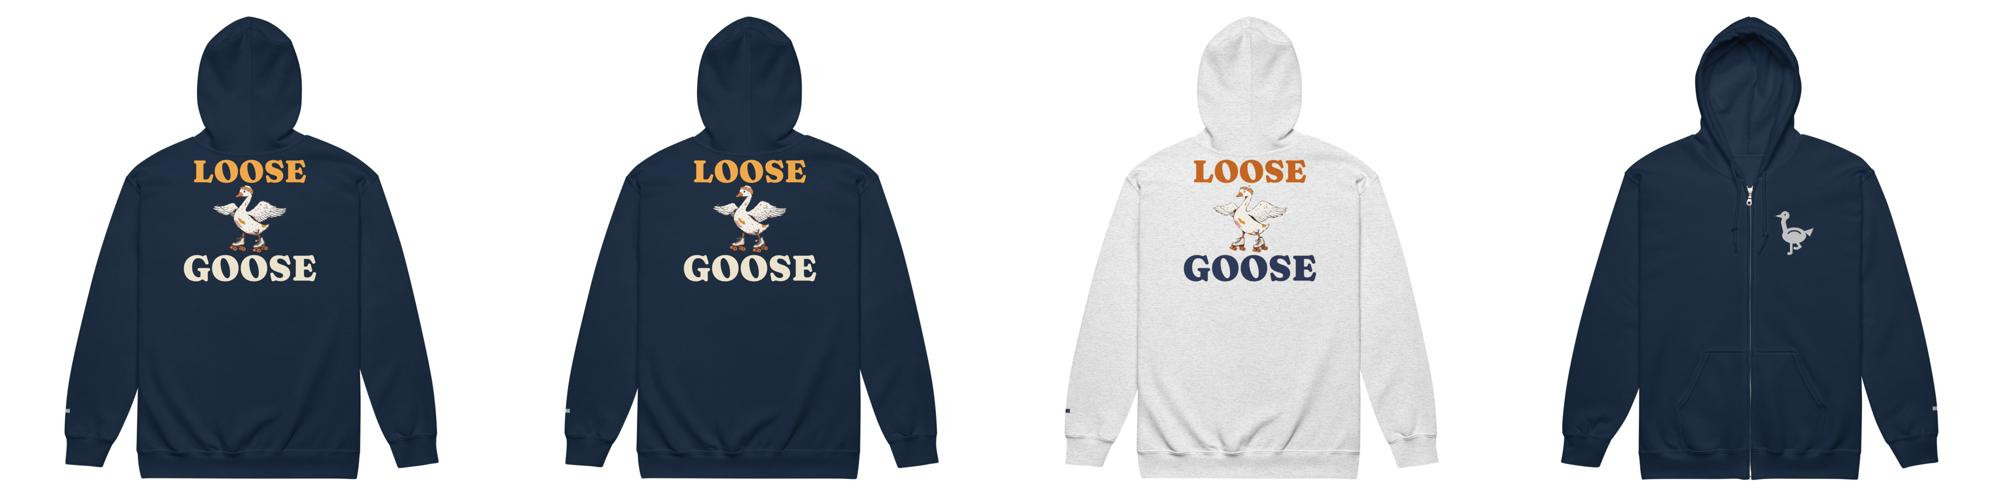
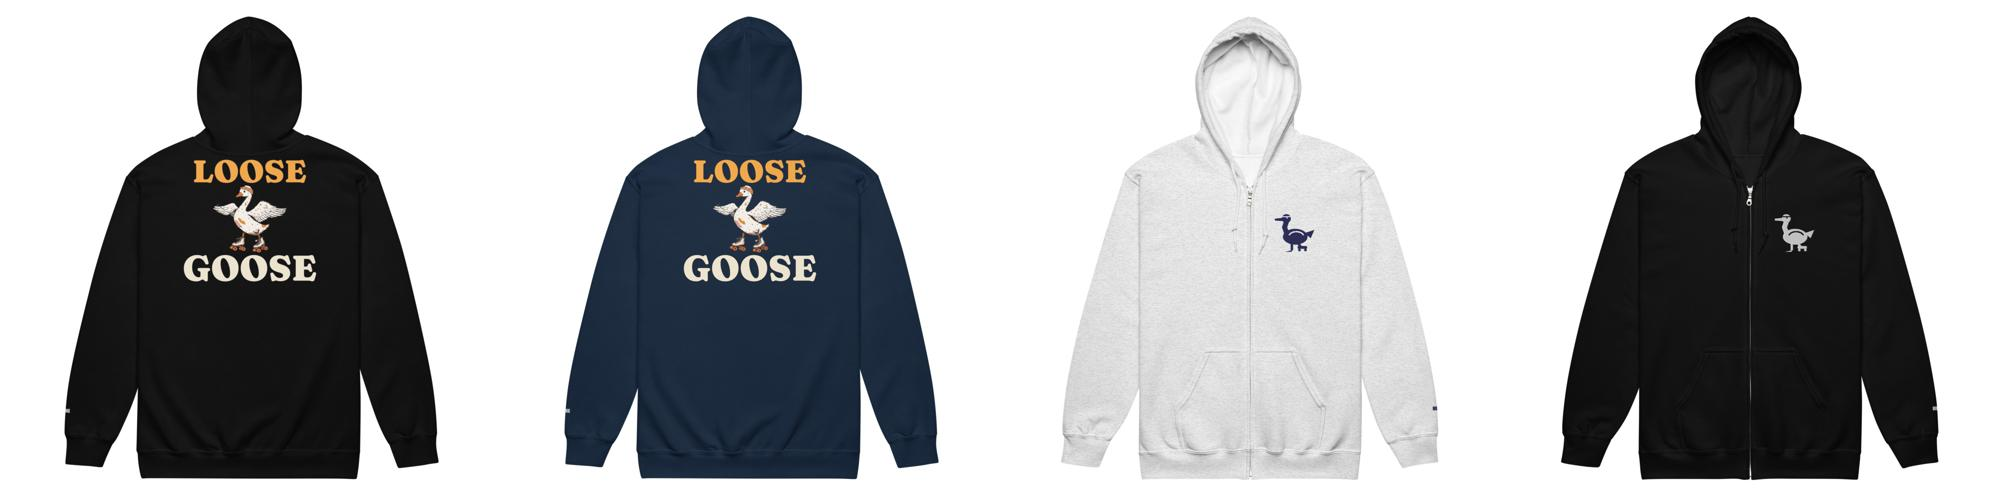
[C] review 915 retro loose goose zip twin (new DRAFT)

diff --git a/docs/pipeline/915-zip-retro-loose-goose.md b/docs/pipeline/915-zip-retro-loose-goose.md
@@ -1,4 +1,5 @@
-status: BUILDING [C] 2026-10-21T12:15Z
+status: REVIEW
+shopify: gid://shopify/Product/15372082676016
 cover: fal-swap
 lane: C
 type: twin
@@ -32,3 +33,4 @@ push: zip
 ---
 ## Log
 - 2026-10-21 11:55 UTC director: brief written, READY (zip twin, lane C, push: zip; $0 fal; R11.12 unmeasured-phrase waiver: keyword-gap.py 2026-10-21 has no volume for "goose zip up hoodie"; registry 1070 claimed).
+- 2026-10-21 12:52 UTC builder [C]: NEW zip twin built to REVIEW (DRAFT gid://shopify/Product/15372082676016, productSet DRAFT, category Hoodies, 18 variants Black/Navy/Ash x S-3XL at $57.99, no compare-at, Printful sync product 483657958). Twin check (R6.2): the source print (womens-retro-loose-goose-cropped-hoodie, 3600 x 3600) had LOOSE GOOSE in ARCHED 70s bubble lettering (orange/peach/pink fills, brown outline, white counters) overlapping the goose's head, wing tips and headband, all one connected shape; the lettering was erased by colour key inside the arc zone with the goose protected (its cream body, headband and beak) and the counters filled, then stray outline remnants and specks removed; art viewed: goose, headband, wings, skates and wheels intact, nothing of the arch left. LOOSE above and GOOSE below were re-set straight. Re-set in Fraunces 900 (a face not among the last five lane C builds). Print 3000 x 2739: 7h headline LOOSE 2523 px / punch GOOSE 2976 px (118% of the headline); 7k type 1137 of 2739 px = 41.5%; 7l subject 1650 of 3000 px = 55.0%. Ash dark file 1091095550: burnt orange headline, navy punch, cream keyline; light file 1091095618: amber headline, cream punch, dark keyline; no cream or white fill on Ash. Chest icon DRAWN BY HAND IN PIL (a goose in a headband with one foot raised on a roller skate (the first version, a plain strutting bird, read as an ostrich and was redrawn per builder 7t before the final sync)) because fal is out of balance, one thread (white on dark blanks, #333366 on Ash), 3.50 x 3.34 in (area 4 x 4 in), thinnest stroke 4.54 mm; wrist HONK in Anton 0.35 in caps, 0.77 in wide. Printful 18/18 verified from GET /sync/products (scripts/c-verify.py): Ash back 1091095550 / chest 1091095370 / wrist 1091095463; Black and Navy back 1091095618 / chest 1091095166 / wrist 1091095305. Photos on the DRAFT: Black back, Navy back, Ash back, Black front, Navy front, Ash front (variants linked to their color's front). Keyword map: primary 'goose zip up hoodie' recorded under products (unmeasured, R11.12 waiver). No cover (fal empty; cover: fal-swap); registry row 1070 stays claimed. Audit-local (DRAFT): PASS with 1 warn (no lifestyle cover).

diff --git a/docs/intake-log.md b/docs/intake-log.md
@@ -37,6 +37,7 @@ RUNNING lane E since 2026-10-21 12:48 UTC
 2026-10-21 08:47 UTC — [H] Helper run: Telegram inbox empty (0 updates, nothing to log). Audit: 0 scripted ERRORs, 123 WARN (polish, left as is); cohesion-audit.md committed. Fixed a missing esbuild by running npm ci (the audit could not run without it). Category check: 0 products without a Shopify category. Freshness: womens-chihuahua-cold-since-birth-zip-hoodie, mens-papa-has-a-spot-wont-say-where-camo-hoodie, mens-catfish-caught-something-ugly-kept-it-anyway-camo-hoodie all 200. Stuck work: none (lane B lock 07:28, newest BUILDING #839 at 08:03). Daily summary not due (before 12:00 UTC). Lock released.
 2026-10-21 08:35 UTC — [E] Builder run end: #822 AOP pink camo zip built to REVIEW. fal wallet exhausted again (storage 403), so every other lane E item (all new art: #723 #745 #748 #749 #751 #752 #827 #836; #851 PARKED, #852-#858 gated on it) waits for a top-up. Lock released.
 RUNNING lane C since 2026-10-21 08:27 UTC
+2026-10-21 12:52 UTC — [C] Builder run: #915 Retro Loose Goose zip twin (new DRAFT, Black/Navy/Ash, $57.99, Fraunces 900 lettering, hand-drawn strutting-goose chest + HONK cuff), 18/18, REVIEW. fal $0.
 2026-10-21 12:51 UTC — [C] Builder run: #911 Golden Retriever I Brought You a Sock zip twin (new DRAFT, Black/Navy/Ash, $57.99, Bevan lettering, hand-drawn retriever-and-sock chest + SOCK cuff), 18/18, REVIEW. fal $0.
 2026-10-21 12:36 UTC — [C] Builder run: #912 Cat Clocked It. Said Nothing. zip twin (new DRAFT, Black/Navy/Ash, $57.99, Anton lettering, hand-drawn side-eye-cat chest + CLOCKED cuff), 18/18, REVIEW. fal $0.
 2026-10-21 12:31 UTC — [C] Builder run: #909 Bookish Do Not Sell My Books zip twin (new DRAFT, Black/Navy/Ash, $57.99, Bowlby One lettering, hand-drawn book-stack chest + MINE cuff), 18/18, REVIEW. fal $0.
